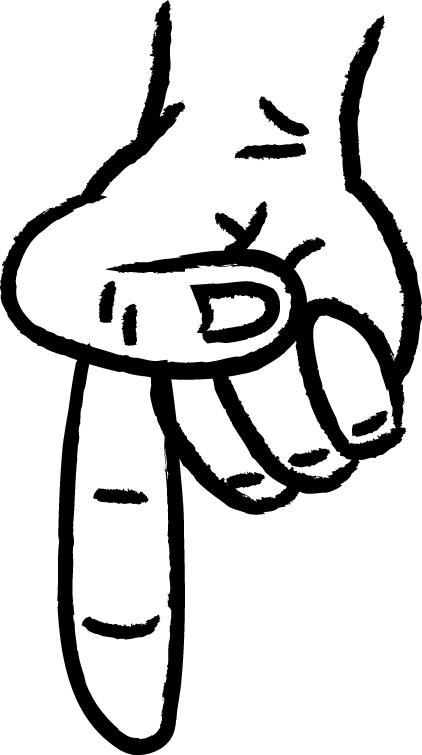
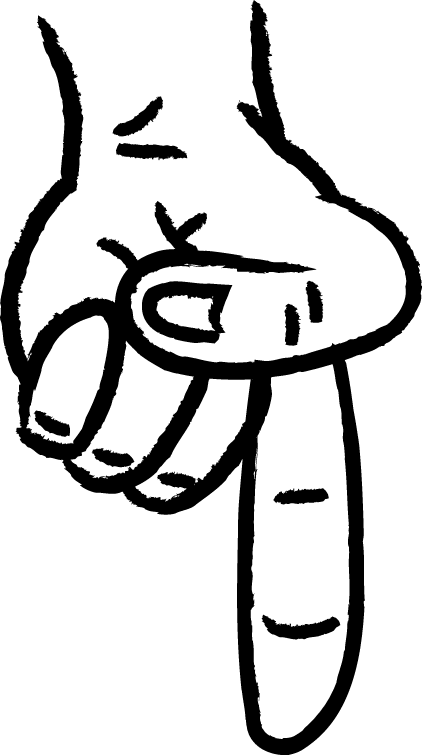
Outfit article UX improvement and Magic Word addition
Added an icon pointing downward to the 'outfit-article-container' to indicate to the user that they can scroll. Also added the hidden Magic Word 'eghfaal'.

Changed region(s): [[0.0, 0.0, 1.0, 1.0]]

diff --git a/trinkets.js b/trinkets.js
@@ -31,13 +31,13 @@ function trinketDesc(target) {
     parent.querySelectorAll("*").forEach(element => { //iterates through all child elements of the detail view and hides them
         element.style.display = "none";
     });
-    for (let i = 0; i < trinkets.length; i++) { //iterates through the trinkets array to find a match for the trinket image clicked
+    for (let i = 0; i < trinkets.length; i++) {// iterates through the trinkets array to find a match for the trinket image clicked
         if (target == (`trinket${[i+1]}Img`)) {
             console.log("match");
-            document.getElementById(`descTextBox`).innerHTML = ""; // removes instructional text from view
-            document.getElementById(`descTitle`).innerHTML = ""; // removes item description heading from view
-            descTitle.insertAdjacentHTML('beforeend', `${trinkets[i][0]}`); // displays trinket name in 'item description' article title
-            descTextBox.insertAdjacentHTML('beforeend', `${trinkets[i][1]}`); // displays trinket text in 'item description'
+            document.getElementById(`descTextBox`).innerHTML = "";// removes instructional text from view
+            document.getElementById(`descTitle`).innerHTML = "";// removes item description heading from view
+            descTitle.insertAdjacentHTML('beforeend', `${trinkets[i][0]}`);// displays trinket name in 'item description' article title
+            descTextBox.insertAdjacentHTML('beforeend', `${trinkets[i][1]}`);// displays trinket text in 'item description'
                 switch (target) {
                     case `trinket2Img`:
                         console.log("Drawers selected");
@@ -55,17 +55,16 @@ function trinketDesc(target) {
                     case `trinket9Img`:
                         console.log("mosaic selected");
                         document.getElementById(`mosaicDetailImg`).style.display = "block";
-                        // resizeMap();
                         break;
                     default:
                         console.log("generic item selected");
                         document.getElementById(`detailImg${[i+1]}`).style.display = "block"
                 }
-                break; // prevents the for loop continuing to run
+                break;// prevents the for loop continuing to run
                 }
             else 
-            document.getElementById(`descTextBox`).innerHTML = "select an item to view info<br>---<br>"; // displays instructional text
-            document.getElementById(`descTitle`).innerHTML = "item description"; // displays description title heading 
+            document.getElementById(`descTextBox`).innerHTML = "select an item to view info<br>---<br>";// displays instructional text
+            document.getElementById(`descTitle`).innerHTML = "item description";// displays description title heading 
     }
 } 
 

diff --git a/style.css b/style.css
@@ -254,11 +254,11 @@ nav {
 .navbtndisabled {
   /* communicates to user what page they are on via disabling the nav link to the page they are currently on in desktop view  */
   background-color: #808080;
-  border: 1px inset;
+  border: 2px inset;
   color: black;
   margin: 0px;
   padding: 3px;
-  border-color: #ffffff;
+  border-color: #c3c3c3;
   opacity: 0.6;
   cursor: not-allowed;
 }
@@ -475,6 +475,21 @@ h3 {
   grid-template-columns: 1fr;
 }
 
+.outfit-article-container:hover #scrollPoint {
+  /* sets scroll image to be visible upon the mouse hovering over the article container */
+  opacity: 1;
+}
+
+#scrollPoint {
+  /* image of a finger pointing downwards to indicate scroll becomes visible upon the user hoverig over the article container */
+  max-width: 60px;
+  opacity: 0;
+  transition: opacity 0.3s;
+  position: absolute;
+  margin-top: 45px;
+  left: 65%;
+}
+
 .outfit-overview {
   display: grid;
   grid-template-columns: 1fr;
@@ -484,6 +499,10 @@ h3 {
   border-width: 4px;
   border-style: solid;
   border-color: #000082;
+}
+
+#hiddenWord {
+  color: #c3c3c3;
 }
 
 /* .robesLowerLayout {

diff --git a/robes.html b/robes.html
@@ -42,8 +42,10 @@
 			<h3>observe!</h3>
 			<p class="green">> though renowned for trinkets, the merchant is no stranger to the finest in wizardly attire</p>
 			<img class="icon" src="assets/wizard.png"><!-- small transparent png image themed to the page -->
+			<p id="hiddenWord" class="astloch-bold">eghfaal</p>
 		</article>
 		<div class="outfit-article-container"><!-- encapsulates the main article of the page in order to allow the grid elements to display correctly -->
+			<img id="scrollPoint" src="assets/black-down-point.png">
 		<h3>shop the look</h3>
 		<article id="outfit-article" class ="featured-article"><!-- main article of the page, in this case, displays a collection of outfit images and descriptions for each -->
 		<div class="outfit-overview"><!-- allows for grid layout styling to present the text and image contents differently across viewports -->

diff --git a/responsive.css b/responsive.css
@@ -28,6 +28,11 @@
   .mobile-title {
     display: none;
   }
+
+  #scrollPoint {
+    max-width: 45px;
+    left: 74%;
+  }
 }
 
 /* Desktop */
@@ -59,6 +64,7 @@
 
   .outfit-article {
     max-height: auto;
+    left: 65%;
   }
 
   .outfit-overview {
@@ -66,6 +72,10 @@
     /* displays outfitr image and outfit description side by side */
   }
 
+  #scrollPoint {
+    max-width: 65px;
+    left: 65%;
+  }
   /* .article {
     grid-row: span 2; */
   /* enables portrait images to virtically span twice as much space as landscapes */
